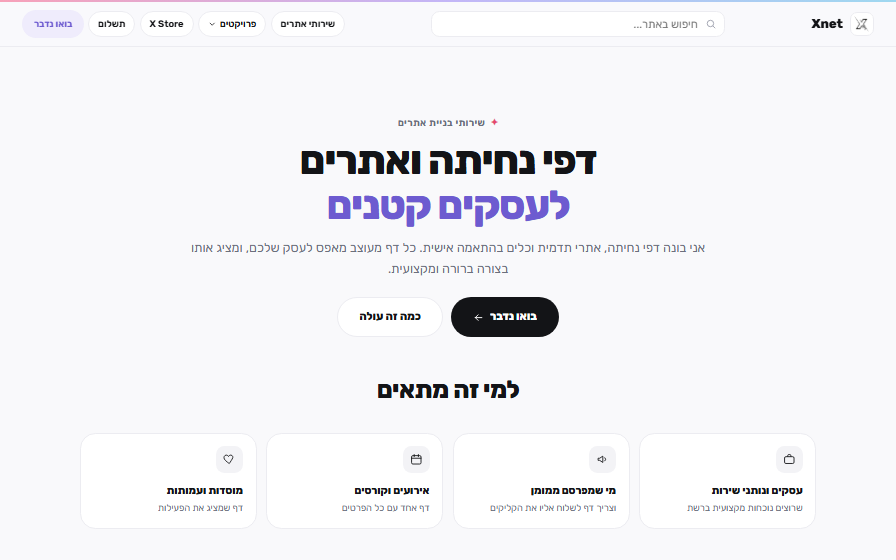
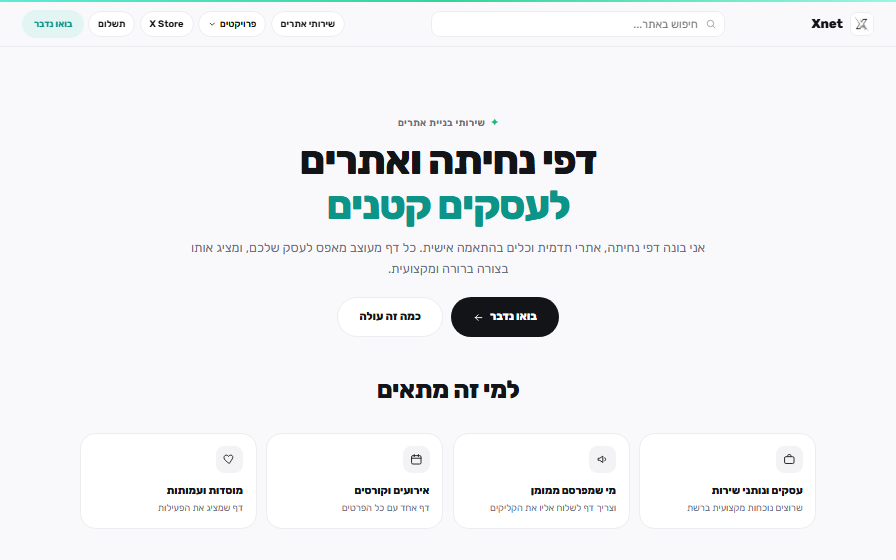
Site accent color: teal instead of purple
- Accent and soft accent tokens, tags, links and the "בואו נדבר" pill are teal
- Background glows and the top line use teal and green instead of purple and pink
- Re-capture the services page screenshot shown on the home page
- X Store keeps its own palette

Changed region(s): [[0.0, 0.0, 1.0, 0.0607], [0.3438, 0.3339, 0.6562, 0.425]]

diff --git a/style.css b/style.css
@@ -1444,17 +1444,17 @@ nav a.nav-cta .dot{width:6px; height:6px; border-radius:50%; background:#4ade80;
    ===================================================================== */
 :root{
   --bg:#f9f9fb; --line:#ececf1; --muted:#6b6f7c; --muted-2:#a3a6b2;
-  --indigo:#6d5bd0; --indigo-soft:#efecfc;
-  --chip:#f3f3f6; --rose:#e5486e; --rose-soft:#fdecf0;
+  --indigo:#0d9488; --indigo-soft:#efecfc;
+  --chip:#f3f3f6; --rose:#10b981; --rose-soft:#fdecf0;
   --mono:ui-monospace,'SFMono-Regular',Consolas,'Liberation Mono',monospace;
   --s-shadow:0 30px 70px -40px rgba(30,27,75,.35);
-  --s-glow:0 30px 70px -45px rgba(229,72,110,.45), 0 30px 70px -45px rgba(109,91,208,.45);
+  --s-glow:0 30px 70px -45px rgba(16,185,129,.35), 0 30px 70px -45px rgba(13,148,136,.45);
   --radius-lg:24px;
 }
 ::selection{background:var(--indigo-soft);}
 
 /* ---------- header ---------- */
-.topline{height:3px; background:linear-gradient(90deg,#f7a1b9,#c3b6f7,#9fd8f0);}
+.topline{height:3px; background:linear-gradient(90deg,#5eead4,#34d399,#99f6e4);}
 header.site-head{
   display:flex; align-items:center; gap:16px; justify-content:flex-start;
   padding:12px clamp(16px,3vw,32px);
@@ -1734,7 +1734,7 @@ header.site-head{position:sticky; top:0; z-index:60;}
 
 /* "בואו נדבר": גלולה סגולה רכה במקום שחור עם נקודה ירוקה */
 nav a.nav-cta{background:var(--indigo-soft); color:var(--indigo); border:1px solid transparent; font-weight:700; box-shadow:none;}
-nav a.nav-cta:hover{background:#e3defa; color:var(--indigo);}
+nav a.nav-cta:hover{background:#cdeee8; color:var(--indigo);}
 nav a.nav-cta .dot{display:none;}
 
 /* ---------- דף הבית בסגנון החנות ---------- */
@@ -1750,8 +1750,8 @@ nav a.nav-cta .dot{display:none;}
 .s-glow::before{
   content:''; position:absolute; inset:-40%; z-index:-1; pointer-events:none;
   background:
-    radial-gradient(closest-side at 30% 45%, color-mix(in srgb, #6d5bd0 26%, transparent), transparent),
-    radial-gradient(closest-side at 62% 60%, color-mix(in srgb, #e5486e 18%, transparent), transparent);
+    radial-gradient(closest-side at 30% 45%, color-mix(in srgb, #0d9488 26%, transparent), transparent),
+    radial-gradient(closest-side at 62% 60%, color-mix(in srgb, #10b981 18%, transparent), transparent);
   filter:blur(28px);
 }
 @media (prefers-reduced-motion: no-preference){
@@ -1780,8 +1780,8 @@ nav a.nav-cta .dot{display:none;}
 .hero2-phone::before{
   content:''; position:absolute; inset:-10% -20%; z-index:-1; pointer-events:none;
   background:
-    radial-gradient(closest-side at 40% 40%, color-mix(in srgb, #6d5bd0 22%, transparent), transparent),
-    radial-gradient(closest-side at 62% 62%, color-mix(in srgb, #e5486e 16%, transparent), transparent);
+    radial-gradient(closest-side at 40% 40%, color-mix(in srgb, #0d9488 22%, transparent), transparent),
+    radial-gradient(closest-side at 62% 62%, color-mix(in srgb, #10b981 16%, transparent), transparent);
   filter:blur(30px);
 }
 @media (prefers-reduced-motion: no-preference){
@@ -1843,8 +1843,8 @@ nav a.nav-cta .dot{display:none;}
 .hero2-show::before{
   content:''; position:absolute; inset:-12% -10%; z-index:-1; pointer-events:none;
   background:
-    radial-gradient(closest-side at 40% 40%, color-mix(in srgb, #6d5bd0 20%, transparent), transparent),
-    radial-gradient(closest-side at 62% 62%, color-mix(in srgb, #e5486e 14%, transparent), transparent);
+    radial-gradient(closest-side at 40% 40%, color-mix(in srgb, #0d9488 20%, transparent), transparent),
+    radial-gradient(closest-side at 62% 62%, color-mix(in srgb, #10b981 14%, transparent), transparent);
   filter:blur(30px);
 }
 @media (prefers-reduced-motion: no-preference){ .hero2-show::before{animation:home-drift 16s ease-in-out infinite alternate;} }
@@ -1864,3 +1864,10 @@ nav a.nav-cta .dot{display:none;}
   .work-note{margin-inline:auto; text-align:right;}
   .show-note{text-align:center;}
 }
+
+/* ---------- צבע ההדגשה של האתר: טורקיז (במקום הסגול שהגיע מעיצוב החנות) ---------- */
+:root{
+  --indigo:#0d9488; --indigo-soft:#e2f5f2;
+  --rose:#10b981; --rose-soft:#e6f7f0;
+}
+::selection{background:#ccf0ea;}
